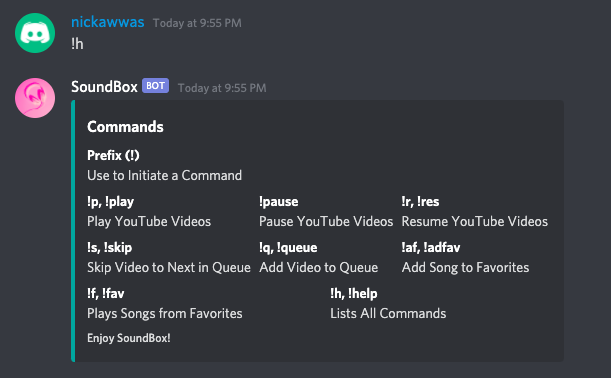
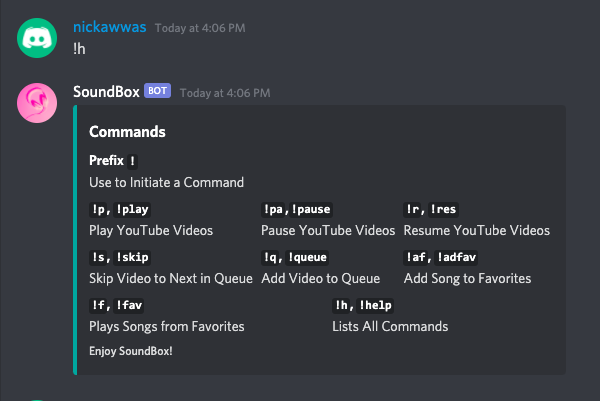
Fixed ReadMe and Imports for Play Command

Changed region(s): [[0.0, 0.2037, 0.93, 0.9603], [0.0, 0.0291, 0.42, 0.1455], [0.54, 0.7566, 0.75, 0.8439]]

diff --git a/src/cmds/play.js b/src/cmds/play.js
@@ -3,8 +3,8 @@ import { MessageEmbed } from 'discord.js';
 
 import search from './search.js';
 
-let dispatcher = '';
-let connected = '';
+let disp = '';
+let connection = '';
 
 //Plays YouTube Video in Voice Channel
 const play = async (msg, args, musicQ) => {
@@ -15,10 +15,8 @@ const play = async (msg, args, musicQ) => {
         return msg.channel.send("Please Connect to a Voice Channel and Try Again!");
 
     //Connecting to Voice Channel
-    const connection = await voiceChannel.join();
+    connection = await voiceChannel.join();
     
-    connected = connection; 
-
     //Search Using YouTube API & Select Video to Play
     const [found, content] = await search(args);
 
@@ -34,35 +32,23 @@ const play = async (msg, args, musicQ) => {
 const playing = (msg, connection, title, url, image, musicQ) => {
     //Start Audio Stream
     const stream = ytdl(url, { filter: 'audioonly'});
-    const disp = connection.play(stream)
+    disp = connection.play(stream)
         .on('error', () => {
             return msg.channel.send('Error: Failed to Play Video. Please Try Again.');   
         })
         .on('finish', () => {
             //Play Until Queue is Empty
             if(musicQ.length < 1)
-                return voiceChannel.leave();
+                return msg.member.voice.channel.leave();
 
-            const {title, url, image} = musicQ.shift();
-            playing(msg, connection, title, url, image, musicQ);
-        })
-        .on('end', () => {
-            //Play Until Queue is Empty
-            if(musicQ.length < 1)
-                return voiceChannel.leave();
-
-            console.log('on end');
             const {title, url, image} = musicQ.shift();
             playing(msg, connection, title, url, image, musicQ);
         });
-
-    //Get Dispatcher
-    dispatcher = disp;
     
     //Embedded Message
     const newEmbedded = new MessageEmbed()
         .setColor('#1fa19c')
-        .setTitle('Now Playing: ')
+        .setTitle(`Now Playing in ${msg.member.voice.channel.name}: `)
         .setDescription(`[${title}](${url})`)
         .setImage(image)
         .setFooter('\nEnjoy SoundBox!');
@@ -70,4 +56,4 @@ const playing = (msg, connection, title, url, image, musicQ) => {
     msg.channel.send(newEmbedded);  
 }
 
-export { play, playing, dispatcher, connected };
+export { play, playing, disp, connection };

diff --git a/src/cmds/command.js b/src/cmds/command.js
@@ -6,15 +6,15 @@ const command = msg => {
             .setColor('#1fa19c')
             .setTitle('Commands')
             .addFields(
-                {name: 'Prefix (!)', value: 'Use to Initiate a Command'},
-                {name: '!p, !play', value: 'Play YouTube Videos', inline: true},
-                {name: '!pause', value: 'Pause YouTube Videos', inline: true},
-                {name: '!r, !res', value: 'Resume YouTube Videos', inline: true},
-                {name: '!s, !skip', value: 'Skip Video to Next in Queue', inline: true},
-                {name: '!q, !queue', value: 'Add Video to Queue', inline: true},
-                {name: '!af, !adfav', value: 'Add Song to Favorites', inline: true},
-                {name: '!f, !fav', value: 'Plays Songs from Favorites', inline: true},
-                {name: '!h, !help', value: 'Lists All Commands', inline: true}
+                {name: 'Prefix `!`', value: 'Use to Initiate a Command'},
+                {name: '`!p`, `!play`', value: 'Play YouTube Videos', inline: true},
+                {name: '`!pa`,`!pause`', value: 'Pause YouTube Videos', inline: true},
+                {name: '`!r`, `!res`', value: 'Resume YouTube Videos', inline: true},
+                {name: '`!s`, `!skip`', value: 'Skip Video to Next in Queue', inline: true},
+                {name: '`!q`, `!queue`', value: 'Add Video to Queue', inline: true},
+                {name: '`!af`, `!adfav`', value: 'Add Song to Favorites', inline: true},
+                {name: '`!f`, `!fav`', value: 'Plays Songs from Favorites', inline: true},
+                {name: '`!h`, `!help`', value: 'Lists All Commands', inline: true}
             )
             .setFooter('\nEnjoy SoundBox!');
 

diff --git a/src/index.js b/src/index.js
@@ -43,11 +43,13 @@ client.on('message', async msg => {
         case 'play': 
             play(msg, args, musicQueue);
             break;
+        case 'pa':
         case 'pause':
             pause(msg);
             break;
         case 'r':
         case 'res':
+        case 'resume':
             resume(msg);
             break;
         case 's':
@@ -71,7 +73,7 @@ client.on('message', async msg => {
             command(msg);
             break;
         default: 
-            msg.channel.send("Not a Valid Command. \nEnter !help to list all commands");
+            msg.channel.send("Not a Valid Command. \nEnter `!help` to list all commands");
     }
 });
 

diff --git a/src/cmds/skip.js b/src/cmds/skip.js
@@ -1,14 +1,14 @@
-import { playing, dispatcher, connected } from './play.js';
+import { playing, disp, connection } from './play.js';
 
-//Resume Paused YouTube Video in Voice Channel
+//Skip Video and Start Playing Next Song in Queue
 const skip = (msg, musicQ) => {
-    dispatcher.destroy();
+    disp.destroy();
     msg.channel.send('Skipped!');
 
     if(musicQ.length < 1) return;
 
     const {title, url, image} = musicQ.shift();
-    playing(msg, connected, title, url, image, musicQ);
+    playing(msg, connection, title, url, image, musicQ);
 }
 
 export default skip;

diff --git a/src/cmds/pause.js b/src/cmds/pause.js
@@ -1,9 +1,9 @@
-import { dispatcher } from './play.js';
+import { disp } from './play.js';
 
 //Pause YouTube Video in Voice Channel
 const pause = msg => {
-    dispatcher.pause();
-    msg.channel.send('Paused! Enter !r to Resume Playing.');
+    disp.pause();
+    msg.channel.send('Paused!\nEnter `!r` to Resume Playing.');
 }
 
 export default pause;

diff --git a/src/cmds/favorites.js b/src/cmds/favorites.js
@@ -18,6 +18,7 @@ const fav = async (msg, args, playlist, musicQ) => {
     msg.channel.send(`Enqueued a Favorite:  ${playlist[i].alias}!`);
 }
 
+//Add Favorite Song to Favorite List
 const adfav = async (msg, args, playlist) => {
     const fav = args.join(' ');
     const [found, content] = await search(args);

diff --git a/src/cmds/resume.js b/src/cmds/resume.js
@@ -1,8 +1,8 @@
-import { dispatcher } from './play.js';
+import { disp } from './play.js';
 
 //Resume Paused YouTube Video in Voice Channel
 const resume = msg => {
-    dispatcher.resume();
+    disp.resume();
     msg.channel.send(`Resumed!`);
 }
 

diff --git a/README.md b/README.md
@@ -10,21 +10,32 @@ Prefix (!) - Used to Initiate Command
 `!af, !adfav [query]` - Ads a Video To Favorites List\
 `!f, !fav [query]` - Plays a Favorite YouTube Video
 
-`!pause` - Pauses Currently Playing Video\
-`!r, !res` - Resumes Currently Paused Video\
+`!pa, !pause` - Pauses Currently Playing Video\
+`!r, !resume` - Resumes Currently Paused Video\
 `!s, !skip` - Skip Current Video to Next in Queue
 
 `!h, !help` - Lists All Commands
 
-## Screenshots
-Playing Music in a Voice Channel\
-![play-cmd](./img/sb-playing.png)
+## Usage
+Play Music Using the `!play` Command Followed By What You Want To Play\
+![play-cmd](./img/sb-play.png)
 
-Adding Songs to Queue\
-![enqueue-cmd](./img/sb-enqueue.png)
+Pause and Resume Music Using the `!pause` and `!resume` Commands\
+![pause-resume-cmd](./img/sb-pause-resume.png)
+
+Skip a Song and Play the Next One in Queue Using the `!skip` Command\
+![pause-resume-cmd](./img/sb-skip.png)
+
+Add a Song to Queue Using the `!queue` Command\
+![enqueue-cmd](./img/sb-queue.png)
+
+Add a Song to Favorites Using the `!adfav` Command\
+Add a Favorite Song to Queue Using `!fav` Command\
+![favorites-cmd](./img/sb-favorites.png)
+![favorites-cmd](./img/sb-favorites2.png)
 
 Must Enter a Valid Command\
 ![not-command](./img/sb-notCommand.png)
 
-List of All Commands\
+List of All Commands Using the `!help` Command\
 ![help-command](./img/sb-help.png)
